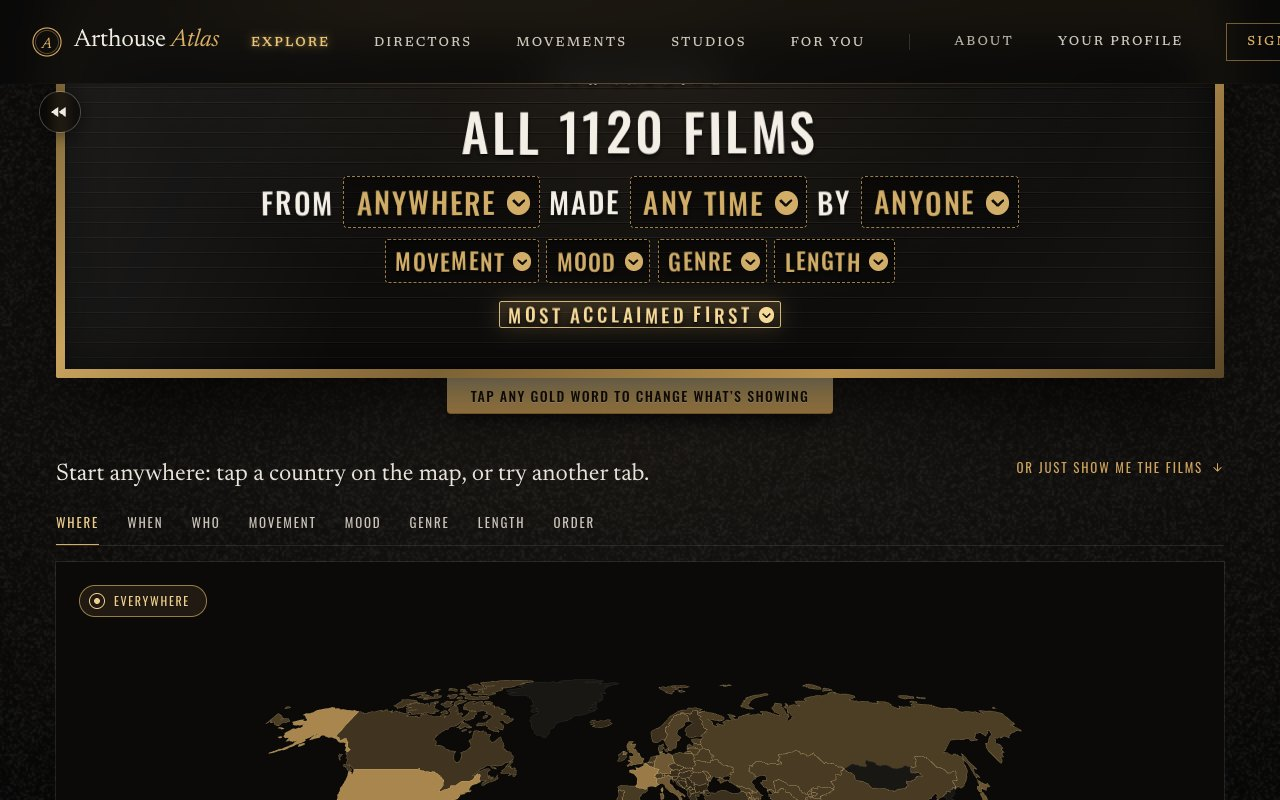
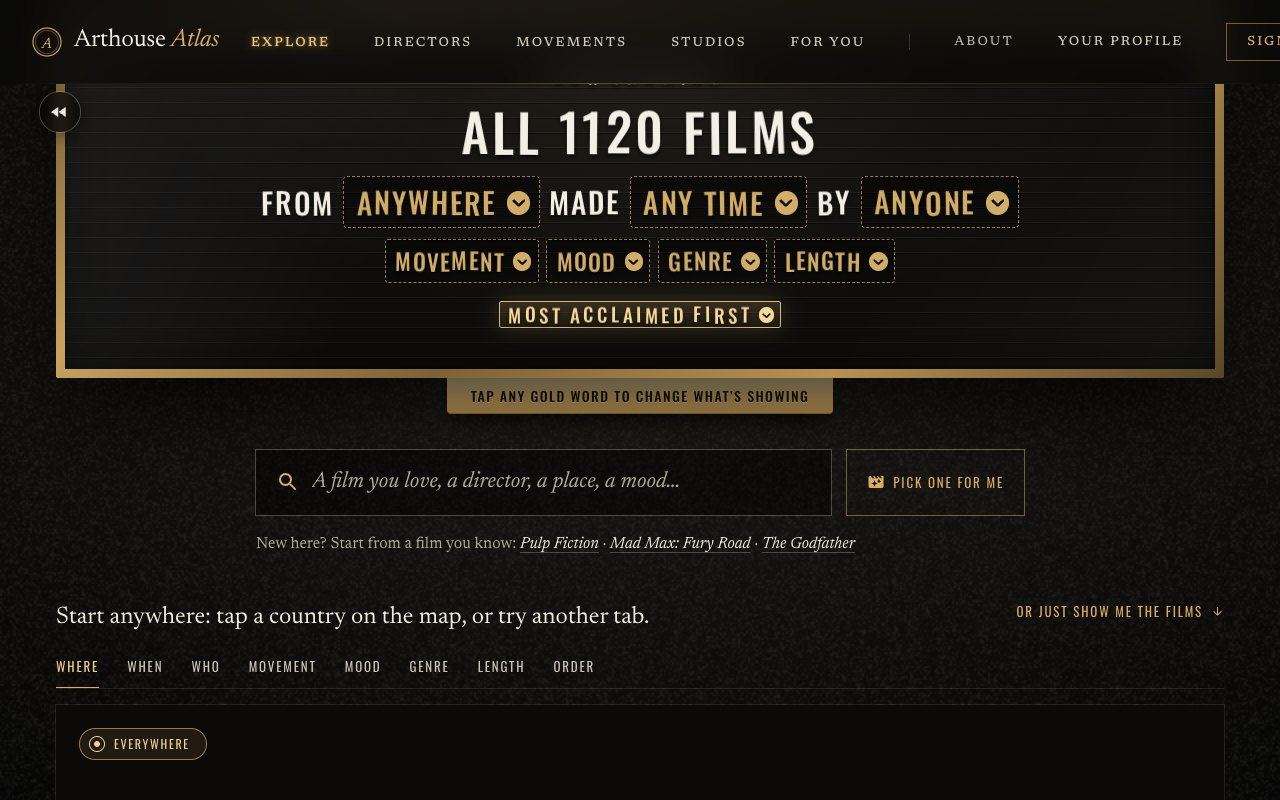
The Letterboxd import is a script in the repo (scripts/users/letterboxd.js: reads the export's zip, matches films by any of their titles and a year either way, dry run by default, --apply backs up the account's marks only, --restore), with tests; it found the Three Colours trilogy the first import m

diff --git a/backend/scripts/users/letterboxd.js b/backend/scripts/users/letterboxd.js
@@ -1,0 +1,216 @@
+/**
+ * An account's marks from a Letterboxd export (letterboxd.com → Settings → Import & export → Export
+ * your data): its ratings, what it's watched, its watchlist and its favourites, for the films in the
+ * atlas. Letterboxd becomes the account's record, so those four are replaced. Favourites are every film
+ * rated five stars, and the profile's top four. "Not for me" marks, which Letterboxd doesn't have, are
+ * kept, less any film it has now seen.
+ *
+ * Films are matched by title (or original or other title) and year, a year either way allowed, since
+ * Letterboxd and TMDB disagree on a few (Casablanca 1942 or 1943). A half-star rating counts as one star,
+ * the site's lowest. Each list is kept in the order the marks were made, oldest first, as the site keeps it.
+ *
+ *   node scripts/users/letterboxd.js <export .zip or folder> <email>            dry run: writes the plan, nothing else
+ *   node scripts/users/letterboxd.js <export .zip or folder> <email> --apply    backs up the account's marks, applies the plan, re-reads to verify
+ *   node scripts/users/letterboxd.js --restore <file> [--apply]                 puts an account's marks back from a backup
+ *
+ * Plan:    scripts/reports/letterboxd-plan.json
+ * Backups: data/backups/backup-letterboxd-user-<time>.json (the marks only, never the password)
+ */
+import fs from 'fs';
+import os from 'os';
+import path from 'path';
+import { execFileSync } from 'child_process';
+import { fileURLToPath } from 'url';
+import dotenv from 'dotenv';
+import mongoose from 'mongoose';
+import Movie from '../../models/Movie.js';
+import User from '../../models/User.js';
+
+const __dirname = path.dirname(fileURLToPath(import.meta.url));
+const BACKEND = path.resolve(__dirname, '../..');
+dotenv.config({ path: path.join(BACKEND, '.env') });
+
+const args = process.argv.slice(2);
+const APPLY = args.includes('--apply');
+const RESTORE = args.includes('--restore') ? args[args.indexOf('--restore') + 1] : null;
+const [SOURCE, EMAIL] = args.filter((a, i) => !a.startsWith('--') && args[i - 1] !== '--restore');
+const REPORTS = path.join(BACKEND, 'scripts/reports');
+const BACKUPS = path.join(BACKEND, 'data/backups');
+const PLAN = path.join(REPORTS, 'letterboxd-plan.json');
+const MARKS = ['ratings', 'favorites', 'watched', 'watchlist', 'notFor'];
+const stamp = () => new Date().toISOString().replace(/[:.]/g, '-');
+
+// a CSV with quoted fields (commas, quotes and line breaks inside them) → one object a row
+export const parseCsv = (text) => {
+  const rows = [];
+  let row = [];
+  let cell = '';
+  let quoted = false;
+  for (let i = 0; i < text.length; i++) {
+    const ch = text[i];
+    if (quoted) {
+      if (ch === '"' && text[i + 1] === '"') { cell += '"'; i++; } else if (ch === '"') quoted = false; else cell += ch;
+    } else if (ch === '"') quoted = true;
+    else if (ch === ',') { row.push(cell); cell = ''; }
+    else if (ch === '\n' || ch === '\r') {
+      if (ch === '\r' && text[i + 1] === '\n') i++;
+      row.push(cell); cell = '';
+      if (row.some((c) => c !== '')) rows.push(row);
+      row = [];
+    } else cell += ch;
+  }
+  if (cell || row.length) { row.push(cell); if (row.some((c) => c !== '')) rows.push(row); }
+  const [head = [], ...body] = rows;
+  return body.map((r) => Object.fromEntries(head.map((h, k) => [h, r[k] ?? ''])));
+};
+
+// a title as both sides can agree on it: no accents, case, punctuation or leading article
+export const normTitle = (t) => (t || '').normalize('NFKD').replace(/[̀-ͯ]/g, '').toLowerCase()
+  .replace(/&/g, ' and ').replace(/^(the|a|an|la|le|les|il|el|der|die|das)\s+/, '').replace(/[^a-z0-9]+/g, ' ').trim();
+
+// the atlas film a Letterboxd entry names: the same title in the same year, or a year either way
+export const matcher = (films) => {
+  const byTitle = new Map();
+  for (const f of films) {
+    for (const t of new Set([f.title, f.originalTitle, ...(f.altTitles || [])].filter(Boolean).map(normTitle))) {
+      if (!byTitle.has(t)) byTitle.set(t, []);
+      byTitle.get(t).push(f);
+    }
+  }
+  const named = (name) => byTitle.get(normTitle(name)) || [];
+  return {
+    find: (name, year) => {
+      const y = Number(year);
+      const same = named(name);
+      return same.find((f) => f.year === y) || same.find((f) => Math.abs((f.year || 0) - y) <= 1) || null;
+    },
+    named,
+  };
+};
+
+// what the export says, in atlas films: { ratings, watched, watchlist, favorites, missing, nearMisses }
+export const planFrom = ({ films, ratings = [], watched = [], watchlist = [], likes = [], profile = {} }) => {
+  const { find, named } = matcher(films);
+  const nearMisses = new Set();
+  const take = (rows, extra = () => ({})) => {
+    const out = new Map();
+    for (const r of rows) {
+      const f = find(r.Name, r.Year);
+      if (f) { if (!out.has(String(f._id))) out.set(String(f._id), { id: String(f._id), title: f.title, year: f.year, date: r.Date || '', ...extra(r) }); }
+      else if (named(r.Name).length) nearMisses.add(`${r.Name} (${r.Year}): the atlas has ${named(r.Name).map((x) => `${x.title} (${x.year})`).join(', ')}`);
+    }
+    return [...out.values()];
+  };
+  const plan = {
+    ratings: take(ratings, (r) => ({ value: Math.min(5, Math.max(1, Number(r.Rating) || 1)) })),
+    watched: take(watched),
+  };
+  // a film already rated or watched doesn't also wait on the watchlist
+  const seen = new Set([...plan.ratings, ...plan.watched].map((x) => x.id));
+  plan.watchlist = take(watchlist).filter((x) => !seen.has(x.id));
+  // favourites: every five-star film, then the profile's top four (Letterboxd links, named by the other files)
+  const byLink = new Map([...ratings, ...watched, ...watchlist, ...likes].map((r) => [r['Letterboxd URI'], r]));
+  const top = (profile['Favorite Films'] || '').split(',').map((s) => s.trim()).filter(Boolean);
+  const favorites = new Map(plan.ratings.filter((r) => r.value === 5).map((r) => [r.id, r]));
+  const missing = [];
+  for (const link of top) {
+    const r = byLink.get(link);
+    const f = r && find(r.Name, r.Year);
+    if (f && !favorites.has(String(f._id))) favorites.set(String(f._id), { id: String(f._id), title: f.title, year: f.year, date: r.Date || '' });
+    else if (!f) missing.push(r ? `${r.Name} (${r.Year})` : link);
+  }
+  plan.favorites = [...favorites.values()];
+  return { ...plan, topFourNotHere: missing, nearMisses: [...nearMisses] };
+};
+
+// the account's new marks: each list oldest first; its "not for me" kept, less what it has now seen
+export const marksFrom = (plan, current = {}) => {
+  const byDate = (list) => [...list].sort((a, b) => String(a.date).localeCompare(String(b.date)));
+  const seen = new Set([...plan.ratings, ...plan.watched].map((x) => x.id));
+  return {
+    ratings: byDate(plan.ratings).map((r) => ({ movie: r.id, value: r.value, ratedAt: r.date ? new Date(`${r.date}T12:00:00Z`) : new Date() })),
+    favorites: byDate(plan.favorites).map((r) => r.id),
+    watched: byDate(plan.watched).map((r) => r.id),
+    watchlist: byDate(plan.watchlist).map((r) => r.id),
+    notFor: (current.notFor || []).map(String).filter((id) => !seen.has(id)),
+  };
+};
+
+// the export, from its .zip (unpacked to a temporary folder) or a folder it was unpacked to
+const readExport = (source) => {
+  let dir = source;
+  let temp = null;
+  if (source.endsWith('.zip')) {
+    temp = fs.mkdtempSync(path.join(os.tmpdir(), 'letterboxd-'));
+    execFileSync('unzip', ['-q', '-o', source, '-d', temp]);
+    dir = temp;
+  }
+  const read = (file) => (fs.existsSync(path.join(dir, file)) ? parseCsv(fs.readFileSync(path.join(dir, file), 'utf8')) : []);
+  const data = { ratings: read('ratings.csv'), watched: read('watched.csv'), watchlist: read('watchlist.csv'), likes: read('likes/films.csv'), profile: read('profile.csv')[0] || {} };
+  if (temp) fs.rmSync(temp, { recursive: true, force: true });
+  if (!data.ratings.length && !data.watched.length) throw new Error(`No ratings.csv or watched.csv in ${source}: is it a Letterboxd export?`);
+  return data;
+};
+
+const count = (m) => `${m.ratings.length} ratings, ${m.favorites.length} favourites, ${m.watched.length} watched, ${m.watchlist.length} on the watchlist, ${m.notFor.length} not for me`;
+
+const dryRun = async () => {
+  if (!SOURCE || !EMAIL) throw new Error('usage: node scripts/users/letterboxd.js <export .zip or folder> <email> [--apply]');
+  const data = readExport(SOURCE);
+  const films = await Movie.find({}).select('title originalTitle altTitles year').lean();
+  const user = await User.findOne({ email: EMAIL.toLowerCase() }).select(['email', 'username', ...MARKS].join(' ')).lean();
+  if (!user) throw new Error(`No account with the email ${EMAIL}`);
+  const plan = planFrom({ films, ...data });
+  const marks = marksFrom(plan, user);
+  fs.mkdirSync(REPORTS, { recursive: true });
+  fs.writeFileSync(PLAN, JSON.stringify({ generatedAt: new Date().toISOString(), userId: String(user._id), email: user.email, plan, marks }, null, 1));
+
+  console.log(`Account: ${user.username}`);
+  console.log(`  now:   ${count(user)}`);
+  console.log(`  after: ${count(marks)}`);
+  console.log(`In the atlas: ${plan.ratings.length} of ${data.ratings.length} ratings, ${plan.watched.length} of ${data.watched.length} watched, ${plan.watchlist.length} of ${data.watchlist.length} on the watchlist (less what's been seen)`);
+  const stars = {};
+  plan.ratings.forEach((r) => { stars[r.value] = (stars[r.value] || 0) + 1; });
+  console.log('Marks:', Object.entries(stars).sort((a, b) => b[0] - a[0]).map(([v, n]) => `${v}★ ${n}`).join('  '));
+  if (plan.topFourNotHere.length) console.log('Top four not in the atlas:', plan.topFourNotHere.join(', '));
+  if (plan.nearMisses.length) console.log(`Same title, another film (left out, ${plan.nearMisses.length}):`, plan.nearMisses.slice(0, 8).join(' | '));
+  console.log(`\nPlan: ${path.relative(BACKEND, PLAN)}. Add --apply to write it.`);
+};
+
+const apply = async () => {
+  const { userId, marks } = JSON.parse(fs.readFileSync(PLAN, 'utf8'));
+  const user = await User.findById(userId).select(['email', ...MARKS].join(' ')).lean();
+  if (!user) throw new Error('The account in the plan is gone; run the dry run again.');
+  fs.mkdirSync(BACKUPS, { recursive: true });
+  const backup = path.join(BACKUPS, `backup-letterboxd-user-${stamp()}.json`);
+  fs.writeFileSync(backup, JSON.stringify(user, null, 1));
+  console.log(`Backed up the account's marks → ${path.relative(BACKEND, backup)}`);
+  const res = await User.updateOne({ _id: userId }, { $set: marks });
+  const after = await User.findById(userId).select(MARKS.join(' ')).lean();
+  console.log(`Modified ${res.modifiedCount}. Verified: ${count(after)}`);
+};
+
+const restore = async (file) => {
+  const saved = JSON.parse(fs.readFileSync(file, 'utf8'));
+  const marks = Object.fromEntries(MARKS.map((k) => [k, saved[k] || []]));
+  console.log(`The backup holds ${count(marks)}`);
+  if (!APPLY) return console.log('Dry run: add --apply to restore them.');
+  const res = await User.updateOne({ _id: saved._id }, { $set: marks });
+  console.log(`Restored: modified ${res.modifiedCount}`);
+};
+
+const main = async () => {
+  await mongoose.connect(process.env.MONGODB_URI);
+  try {
+    if (RESTORE) await restore(RESTORE);
+    else if (APPLY) {
+      // (with an export named, the plan is made from it first, so it's never an old one)
+      if (SOURCE) await dryRun();
+      await apply();
+    } else await dryRun();
+  } finally {
+    await mongoose.disconnect();
+  }
+};
+
+if (process.argv[1] === fileURLToPath(import.meta.url)) main().catch((err) => { console.error(err.message || err); process.exit(1); });

diff --git a/backend/tests/letterboxd.test.js b/backend/tests/letterboxd.test.js
@@ -1,0 +1,57 @@
+import { test } from 'node:test';
+import assert from 'node:assert/strict';
+import { parseCsv, normTitle, matcher, planFrom, marksFrom } from '../scripts/users/letterboxd.js';
+
+const films = [
+    { _id: 'a', title: 'Three Colors: Blue', altTitles: ['Three Colours: Blue', 'Trois couleurs : Bleu'], year: 1993 },
+    { _id: 'b', title: 'Casablanca', year: 1943 },
+    { _id: 'c', title: 'Nosferatu', year: 1922 },
+    { _id: 'd', title: 'The Seventh Seal', originalTitle: 'Det sjunde inseglet', year: 1957 },
+    { _id: 'e', title: 'Persona', year: 1966 },
+];
+
+test('a CSV keeps commas, quotes and line breaks inside quoted fields', () => {
+    const rows = parseCsv('Date,Name,Bio\r\n2023-07-29,"Paris, Texas","He said ""no""\nthen left"\r\n');
+    assert.deepEqual(rows, [{ Date: '2023-07-29', Name: 'Paris, Texas', Bio: 'He said "no"\nthen left' }]);
+});
+
+test('titles match without accents, case, punctuation or a leading article; another title counts; a year either way', () => {
+    assert.equal(normTitle('Le Mépris'), normTitle('mepris'));
+    const { find } = matcher(films);
+    assert.equal(find('Three Colours: Blue', 1993)?._id, 'a');
+    assert.equal(find('Casablanca', 1942)?._id, 'b');
+    assert.equal(find('Seventh Seal', 1957)?._id, 'd');
+    assert.equal(find('Nosferatu', 2024), null, 'a remake is another film');
+});
+
+test('the plan: ratings at least one star, the watchlist less what has been seen, favourites the five-star films and the top four', () => {
+    const plan = planFrom({
+        films,
+        ratings: [
+            { Date: '2024-01-02', Name: 'Three Colours: Blue', Year: '1993', Rating: '5', 'Letterboxd URI': 'u/a' },
+            { Date: '2023-05-01', Name: 'Casablanca', Year: '1942', Rating: '0.5', 'Letterboxd URI': 'u/b' },
+        ],
+        watched: [{ Date: '2023-05-01', Name: 'Casablanca', Year: '1942', 'Letterboxd URI': 'u/b' }, { Date: '2022-01-01', Name: 'Persona', Year: '1966', 'Letterboxd URI': 'u/e' }],
+        watchlist: [{ Date: '2023-01-01', Name: 'Persona', Year: '1966' }, { Date: '2023-02-01', Name: 'The Seventh Seal', Year: '1957' }, { Date: '2023-03-01', Name: 'Nosferatu', Year: '2024' }],
+        profile: { 'Favorite Films': 'u/e, u/z' },
+    });
+    assert.deepEqual(plan.ratings.map((r) => [r.id, r.value]), [['a', 5], ['b', 1]]);
+    assert.deepEqual(plan.watchlist.map((r) => r.id), ['d']);
+    assert.deepEqual(plan.favorites.map((r) => r.id), ['a', 'e']);
+    assert.deepEqual(plan.topFourNotHere, ['u/z']);
+    assert.equal(plan.nearMisses.length, 1);
+});
+
+test("the account's marks: oldest first, and its own not-for-me marks kept less what it has now seen", () => {
+    const plan = {
+        ratings: [{ id: 'a', value: 5, date: '2024-01-02' }, { id: 'b', value: 3, date: '2023-05-01' }],
+        watched: [{ id: 'b', date: '2023-05-01' }, { id: 'e', date: '2022-01-01' }],
+        watchlist: [{ id: 'd', date: '2023-02-01' }],
+        favorites: [{ id: 'a', date: '2024-01-02' }],
+    };
+    const marks = marksFrom(plan, { notFor: ['c', 'e'] });
+    assert.deepEqual(marks.ratings.map((r) => r.movie), ['b', 'a']);
+    assert.equal(marks.ratings[1].ratedAt.toISOString(), '2024-01-02T12:00:00.000Z');
+    assert.deepEqual(marks.watched, ['e', 'b']);
+    assert.deepEqual(marks.notFor, ['c']);
+});

diff --git a/README.md b/README.md
@@ -59,7 +59,7 @@ You arrive on the film's title card, over its own frames. Scroll, and the screen
 | | |
 |---|---|
 | ![](docs/screens/film-title.jpg) | ![](docs/screens/film-credits.jpg) |
-| **The title card,** with the film marked Watched and Favourite and given four stars. No account is needed: the marks are kept in the browser and move into an account at sign-in. The trailer button is a little screen already playing the film's frames. | **The opening titles.** The director's card irises in on their face. The navbar steps aside while the titles run, and your controls dock at the top so they're always within reach. |
+| **The title card** opens on the studio that presents it, which leads to its page, with the film marked Watched and Favourite and given four stars. No account is needed: the marks are kept in the browser and move into an account at sign-in. The trailer button is a little screen already playing the film's frames. | **The opening titles.** The director's card irises in on their face. The navbar steps aside while the titles run, and your controls dock at the top so they're always within reach. |
 | ![](docs/screens/film-trailer.jpg) | ![](docs/screens/film-critics.jpg) |
 | **The trailer plays in place.** The little screen grows into the big one. For the 55 films with no trailer online, the film's own frames run instead. | **How the critics rank it:** the film's standing on a marquee, its strongest lists as laurels, and what MovieLens viewers made of it. |
 | ![](docs/screens/film-lists.jpg) | ![](docs/screens/film-double-bill.jpg) |
@@ -78,7 +78,7 @@ Your taste is the lens. A film you loved stands sharp in the foreground, your pi
 | | |
 |---|---|
 | ![](docs/screens/explore.jpg) | ![](docs/screens/explore-foyer.jpg) |
-| **Explore: the foyer.** A cinema letterboard says what's showing, and every gold word is a choice: country, decade, director, movement, mood, genre, length, order. The choices sit in a tray under the board, made with pictures. It opens on the next blank word (the map, to start) and moves on after each pick. | **The display cases.** Films in canon order (pick a decade and it's that decade's own ranking), lit as you reach them; hover one and its frames run. Start from a film you know, or let the projector pick. |
+| **Explore: the foyer.** A cinema letterboard says what's showing, and every gold word is a choice: country, decade, director, movement, mood, genre, length, order. Under it, a search for anything (a film, a director, a place, a studio). The choices sit in a tray under the board, made with pictures. It opens on the next blank word (the map, to start) and moves on after each pick. | **The display cases.** Films in canon order (pick a decade and it's that decade's own ranking), lit as you reach them; hover one and its frames run. Start from a film you know, or let the projector pick. |
 | ![](docs/screens/directors.jpg) | ![](docs/screens/director.jpg) |
 | **Directors: "Directed by".** The scroll is the projector; each director's best film rolls into the gate, then everyone appears as end credits. It plays once, and "Skip to the list" goes straight to the credits. | **A director's page** is a retrospective: the career on a projector, a poster wall, the biography on an archive card, the circle they worked with. |
 | ![](docs/screens/movements.jpg) | ![](docs/screens/movement.jpg) |
@@ -199,7 +199,7 @@ npm install
 npm run dev                   # http://localhost:5173
 ```
 
-**Tests:** `npm test` in `backend/` runs 92 tests. They cover the canon breakdown, the About lists, Explore's filters, For You's reasons, the studios, the director index, the profile awards (signed in and from the browser's marks), today's film, accounts (including the Google sign-in check) and the film-page data scripts. `npm test` in `frontend/` runs 11 tests of the link-preview and search middleware (including the first-frame preload) and the sitemap.
+**Tests:** `npm test` in `backend/` runs 96 tests. They cover the canon breakdown, the About lists, Explore's filters, For You's reasons, the studios, the director index, the profile awards (signed in and from the browser's marks), today's film, accounts (including the Google sign-in check), the Letterboxd import and the film-page data scripts. `npm test` in `frontend/` runs 11 tests of the link-preview and search middleware (including the first-frame preload) and the sitemap.
 
 **The data scripts** (all in `backend/scripts/`; the media scripts only write when given `--apply`):
 

diff --git a/TECHNICAL_OVERVIEW.md b/TECHNICAL_OVERVIEW.md
@@ -253,7 +253,7 @@ Services that draw a shared link's preview don't run JavaScript, so a single-pag
 
 ## 10. Tests
 
-- **Backend** (`npm test` in `backend/`): 92 tests. They cover the canon breakdown against `scoreFilm()`, each list's order and the About index's picks, Explore's filters, counts and orders (a decade in its own ranking), For You's reasons and shares, the studios and director indexes, the profile's awards (and the signed-out night made from the browser's marks), today's film's rounds (the classics and the Sundays), account changes and the Google sign-in check, and the film-page data scripts' pure parts (choosing a trailer, reading credits).
+- **Backend** (`npm test` in `backend/`): 96 tests. They cover the canon breakdown against `scoreFilm()`, each list's order and the About index's picks, Explore's filters, counts and orders (a decade in its own ranking), For You's reasons and shares, the studios and director indexes, the profile's awards (and the signed-out night made from the browser's marks), today's film's rounds (the classics and the Sundays), account changes and the Google sign-in check, the Letterboxd import (reading the export, matching titles a year either way), and the film-page data scripts' pure parts (choosing a trailer, reading credits).
 - **Frontend** (`npm test` in `frontend/`): 11 tests of the middleware (previews, the first-frame preload, canonical addresses, structured data) and the sitemap.
 - **The recommender's evaluation** is a test of its own, written and committed before it was run.
 

diff --git a/PROJECT_SUMMARY.md b/PROJECT_SUMMARY.md
@@ -28,7 +28,7 @@ A full-stack web app (React, Express, MongoDB) for discovering arthouse films:
 - **Catalogue:** 1,120 films from 75 countries, 1915 to 2025, chosen by one rule: every film our canon would rank in its top 500 is in.
 - **Lists:** 4,187 list citations across the 1,056 ranked films.
 - **MovieLens:** 32,000,204 ratings from 200,948 people. 1,086 of the films are matched, with 3,779,709 ratings between them.
-- **Tests:** 92 backend tests and 11 frontend tests.
+- **Tests:** 96 backend tests and 11 frontend tests.
 
 ## Stack
 
